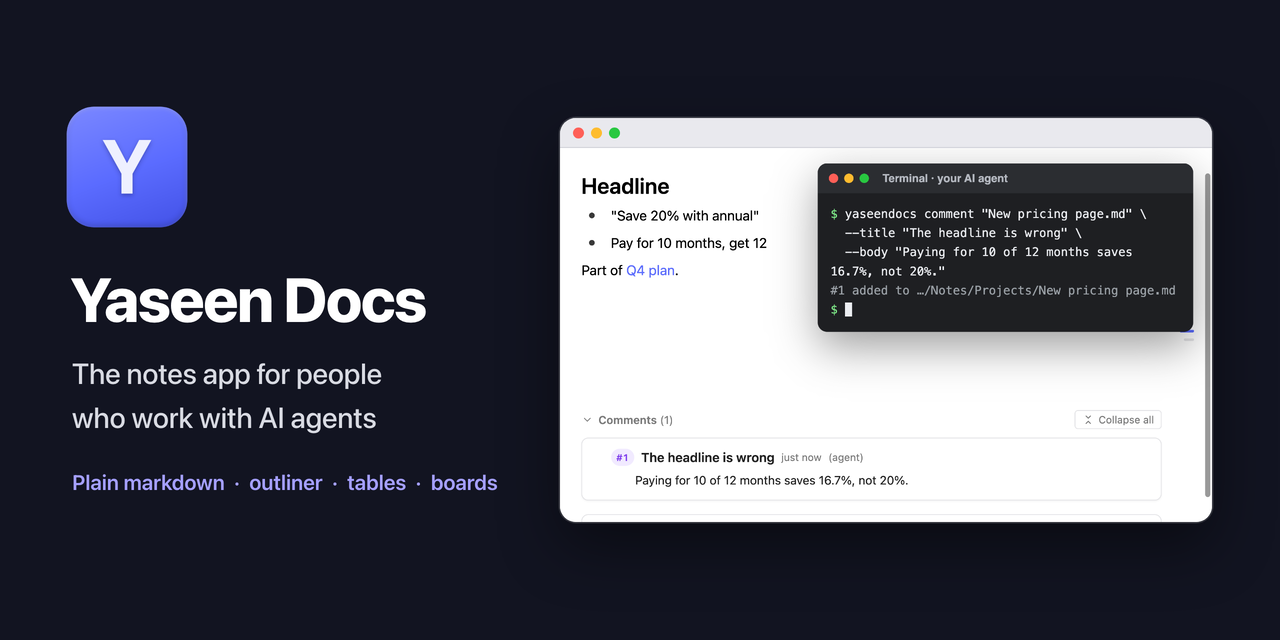
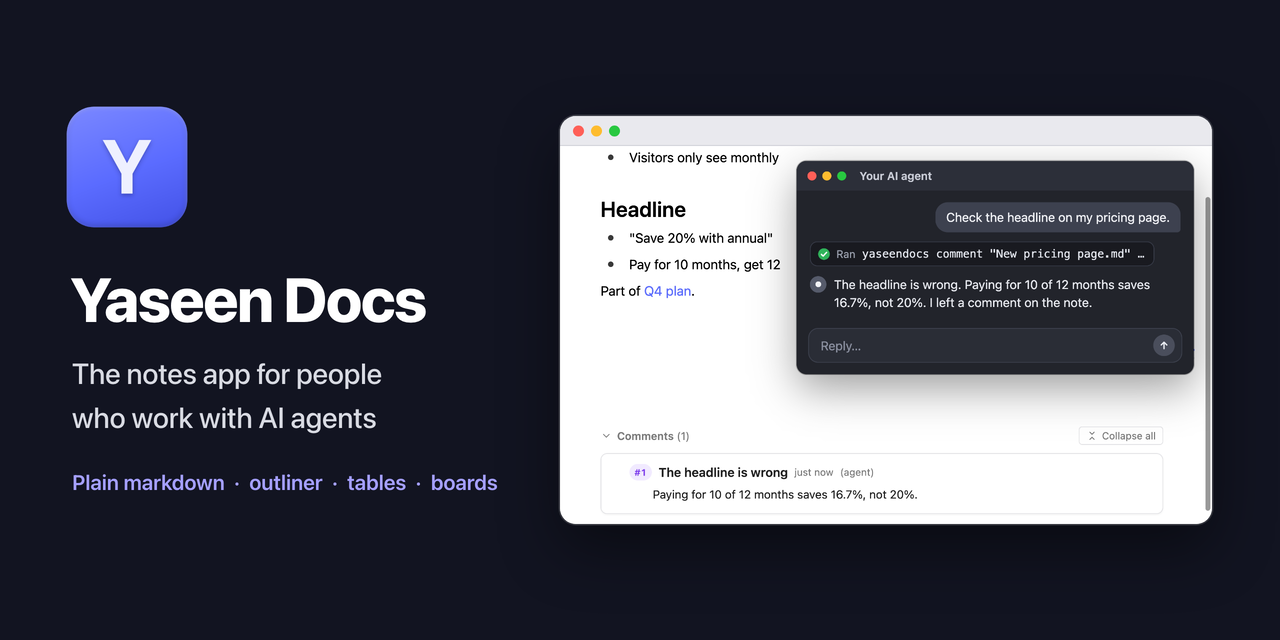
docs(readme): the agent is a chat window in the pictures, and the table has fewer notes
- hero.gif, comment.gif and social-preview.png show a chat with the agent
  in the place of a terminal. The comment below the note is still real.
- The table: two small notes below the crosses of Obsidian are removed.
- The example file matches the note in the pictures.

diff --git a/README.md b/README.md
@@ -43,9 +43,9 @@ You know these moments:
 | -- | :--: | :--: | :--: | :--: | :--: |
 | **Local Markdown (Agent Native)** | ❌<br><sub>Cloud</sub> | ✅ | ❌<br><sub>Cloud</sub> | ❌<br><sub>Cloud or a database ¹</sub> | ✅ |
 | **Sync Across Devices Included** | ✅ | ❌<br><sub>Add-on, from $4 a month</sub> | ✅ | ✅ | ✅<br><sub>Free, through git</sub> |
-| **Smooth Outliner** | ❌<br><sub>Toggles only</sub> | ❌<br><sub>Zoom needs a plugin</sub> | ❌<br><sub>Headings only</sub> | ✅ | ✅ |
+| **Smooth Outliner** | ❌<br><sub>Toggles only</sub> | ❌ | ❌<br><sub>Headings only</sub> | ✅ | ✅ |
 | **Real Document (Not Blocks)** | ❌<br><sub>Blocks</sub> | ✅ | ✅ | ❌<br><sub>Each line is a bullet</sub> | ✅ |
-| **View Files in Spreadsheet-like Table (Any Folder = Database)** | ✅ | ❌<br><sub>Needs a <code>.base</code> file</sub> | ❌ | ❌ | ✅ |
+| **View Files in Spreadsheet-like Table (Any Folder = Database)** | ✅ | ❌ | ❌ | ❌ | ✅ |
 | **Own Your Data (No Account, No Server)** | ❌ | ✅ | ❌ | ❌ <sup>²</sup> | ✅ |
 | **Open Source** | ❌ | ❌ | ❌ | ❌ <sup>²</sup> | ✅ |
 
